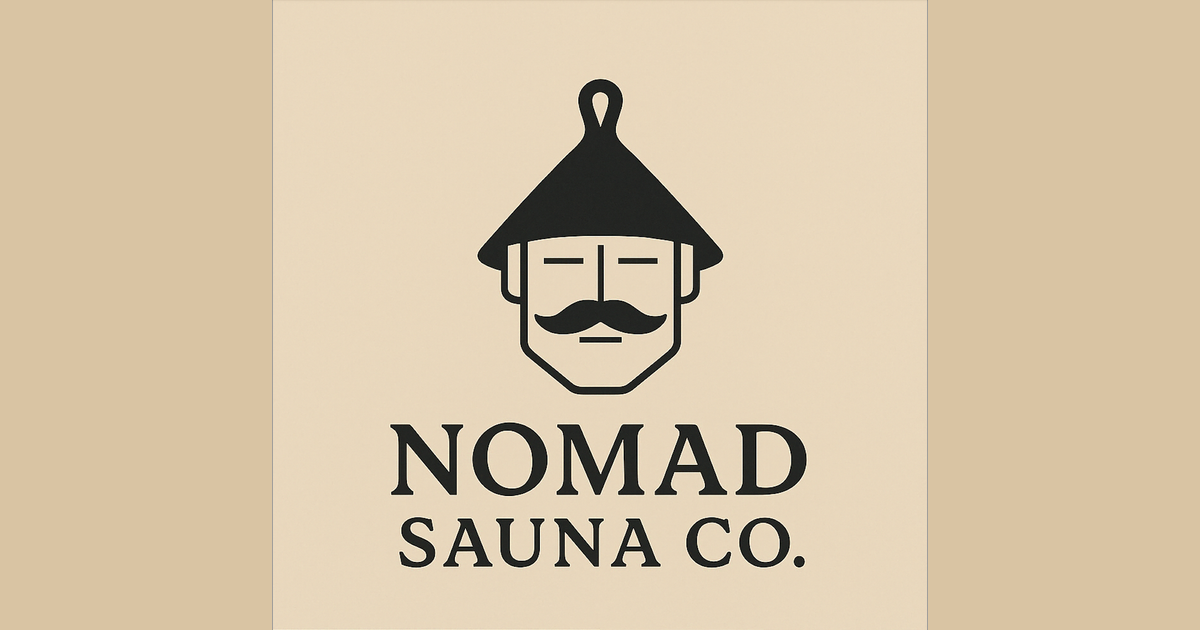
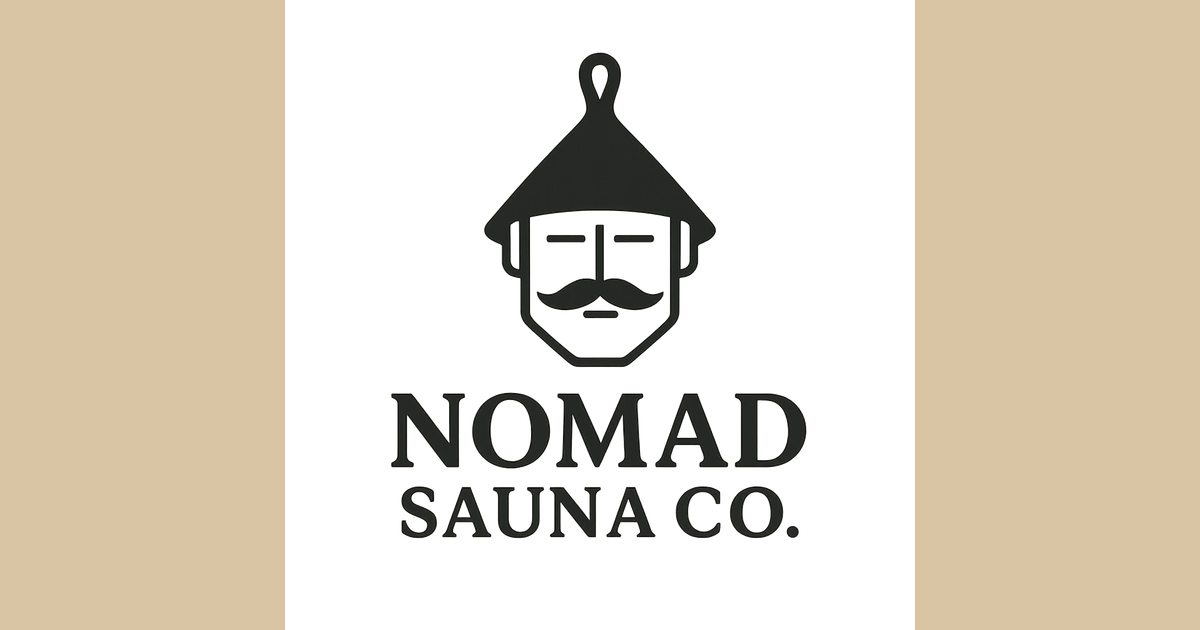
Update Open Graph image to use Link Picture No Bg with Warm Taupe background

diff --git a/update-og-with-no-bg.js b/update-og-with-no-bg.js
@@ -1,0 +1,97 @@
+// Script to create an optimized Open Graph image using the Link Picture No Bg
+const sharp = require('sharp');
+const fs = require('fs');
+const path = require('path');
+
+console.log('Creating optimized Open Graph image with No Bg logo...');
+
+// Define paths
+const ogDir = path.join(__dirname, 'public', 'images', 'og');
+const sourcePath = path.join(__dirname, 'Link Picture No Bg.png'); // Use the Link Picture No Bg from root directory
+const publicPath = path.join(__dirname, 'public', 'Link Picture No Bg.png'); // Destination in public directory
+const outputPath = path.join(ogDir, 'og-image-optimized.png');
+const finalPath = path.join(ogDir, 'og-image.png');
+const backupPath = path.join(ogDir, 'og-image-original.png');
+
+// Brand colors
+const WARM_TAUPE = '#D9C4A3'; // Warm Taupe color for consistent background
+const WARM_TAUPE_RGB = { r: 217, g: 196, b: 163, alpha: 1 }; // RGB values for Warm Taupe
+
+// Make sure the directory exists
+if (!fs.existsSync(ogDir)) {
+  console.log('Creating OG image directory...');
+  fs.mkdirSync(ogDir, { recursive: true });
+}
+
+// Copy the source file to public directory if it doesn't exist there
+if (!fs.existsSync(publicPath) && fs.existsSync(sourcePath)) {
+  try {
+    fs.copyFileSync(sourcePath, publicPath);
+    console.log(`✅ Copied ${sourcePath} to ${publicPath}`);
+  } catch (err) {
+    console.error(`❌ Error copying file: ${err.message}`);
+    // Continue with the source file
+  }
+}
+
+// Use the file from the root directory if it exists, otherwise try the public directory
+const linkPicturePath = fs.existsSync(sourcePath) ? sourcePath : publicPath;
+
+// Check if the Link Picture No Bg file exists
+if (!fs.existsSync(linkPicturePath)) {
+  console.error('❌ Error: Link Picture No Bg not found at', linkPicturePath);
+  process.exit(1);
+}
+
+// Create a backup of the original image if it exists
+if (fs.existsSync(finalPath)) {
+  try {
+    fs.copyFileSync(finalPath, backupPath);
+    console.log('✅ Created backup of original image at', backupPath);
+  } catch (err) {
+    console.error('❌ Error creating backup:', err);
+    process.exit(1);
+  }
+}
+
+// Get Link Picture info
+sharp(linkPicturePath)
+  .metadata()
+  .then(metadata => {
+    console.log(`Link Picture No Bg dimensions: ${metadata.width}×${metadata.height}`);
+
+    // Resize the Link Picture to fit properly in the OG image
+    return sharp(linkPicturePath)
+      .resize({
+        width: 1200,
+        height: 630,
+        fit: 'contain',
+        background: WARM_TAUPE_RGB // Warm Taupe color (#D9C4A3) for consistent background
+      })
+      .toFile(outputPath);
+  })
+  .then(() => {
+    console.log('✅ Open Graph image created successfully!');
+
+    // Replace or create the final image
+    fs.renameSync(outputPath, finalPath);
+    console.log('✅ OG image saved at', finalPath);
+
+    // Add a version query parameter to the image URL in layout.tsx
+    const timestamp = Date.now();
+    console.log(`\nTo force cache refresh, update your OG image URL to include a version parameter:`);
+    console.log(`/images/og/og-image.png?v=${timestamp}`);
+
+    return sharp(finalPath).metadata();
+  })
+  .then(metadata => {
+    console.log(`\nNew image dimensions: ${metadata.width}×${metadata.height}`);
+    console.log('\nNext steps:');
+    console.log('1. Update your Open Graph meta tags in app/layout.tsx to include a version parameter');
+    console.log('2. Deploy your site to Netlify');
+    console.log('3. Use social media debugging tools to clear the cache for each platform');
+  })
+  .catch(err => {
+    console.error('❌ Error creating image:', err);
+    process.exit(1);
+  });

diff --git a/app/layout.tsx b/app/layout.tsx
@@ -19,7 +19,7 @@ export const metadata: Metadata = {
     siteName: "Nomad Sauna Co.",
     images: [
       {
-        url: "https://nomadsaunaco.com/images/og/og-image.png?v=1745024693656",
+        url: "https://nomadsaunaco.com/images/og/og-image.png?v=1745025724176",
         width: 1200,
         height: 630,
         alt: "Nomad Sauna Co. Logo"
@@ -30,7 +30,7 @@ export const metadata: Metadata = {
     card: "summary_large_image",
     title: "Nomad Sauna Co. | Handcrafted Saunas for Modern Living",
     description: "Premium custom-built saunas crafted with sustainable materials and traditional Finnish techniques for an authentic experience anywhere.",
-    images: ["https://nomadsaunaco.com/images/og/og-image.png?v=1745024693656"],
+    images: ["https://nomadsaunaco.com/images/og/og-image.png?v=1745025724176"],
   }
 };
 
@@ -44,11 +44,11 @@ export default function RootLayout({
       <head>
         <link rel="icon" href="/logo-no-bg.png" type="image/png" />
         {/* Additional explicit meta tags for social media platforms */}
-        <meta property="og:image" content="https://nomadsaunaco.com/images/og/og-image.png?v=1745024693656" />
+        <meta property="og:image" content="https://nomadsaunaco.com/images/og/og-image.png?v=1745025724176" />
         <meta property="og:image:width" content="1200" />
         <meta property="og:image:height" content="630" />
         <meta property="og:image:alt" content="Nomad Sauna Co. Logo" />
-        <meta name="twitter:image" content="https://nomadsaunaco.com/images/og/og-image.png?v=1745024693656" />
+        <meta name="twitter:image" content="https://nomadsaunaco.com/images/og/og-image.png?v=1745025724176" />
       </head>
       <body
         className={cn(
